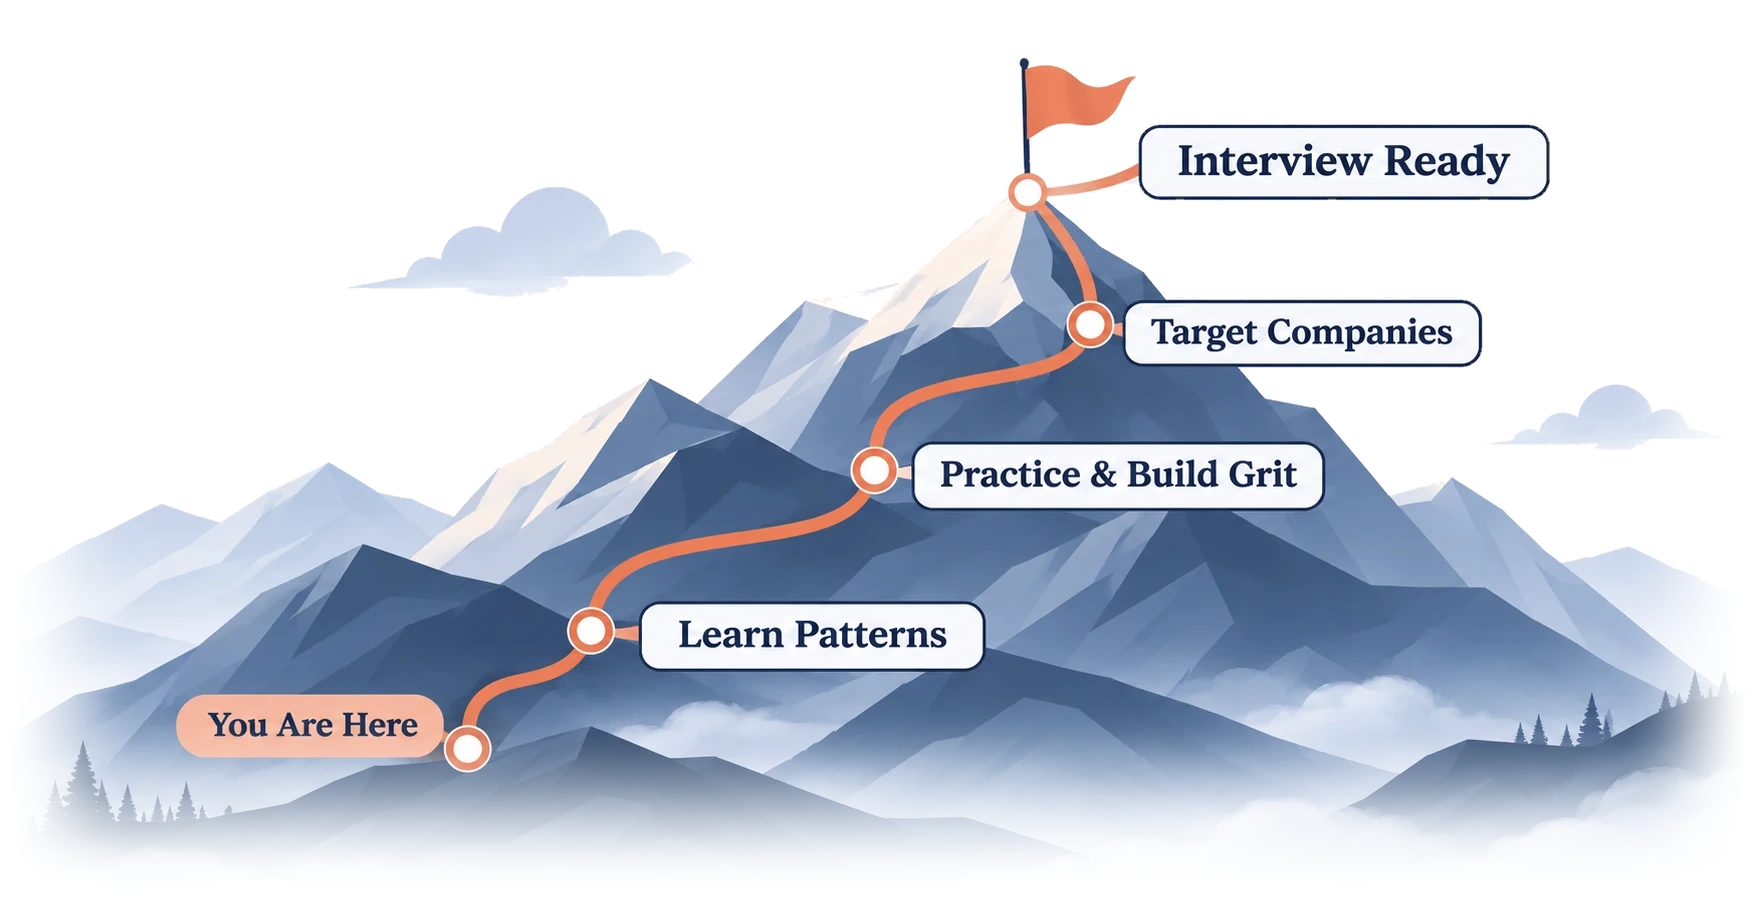
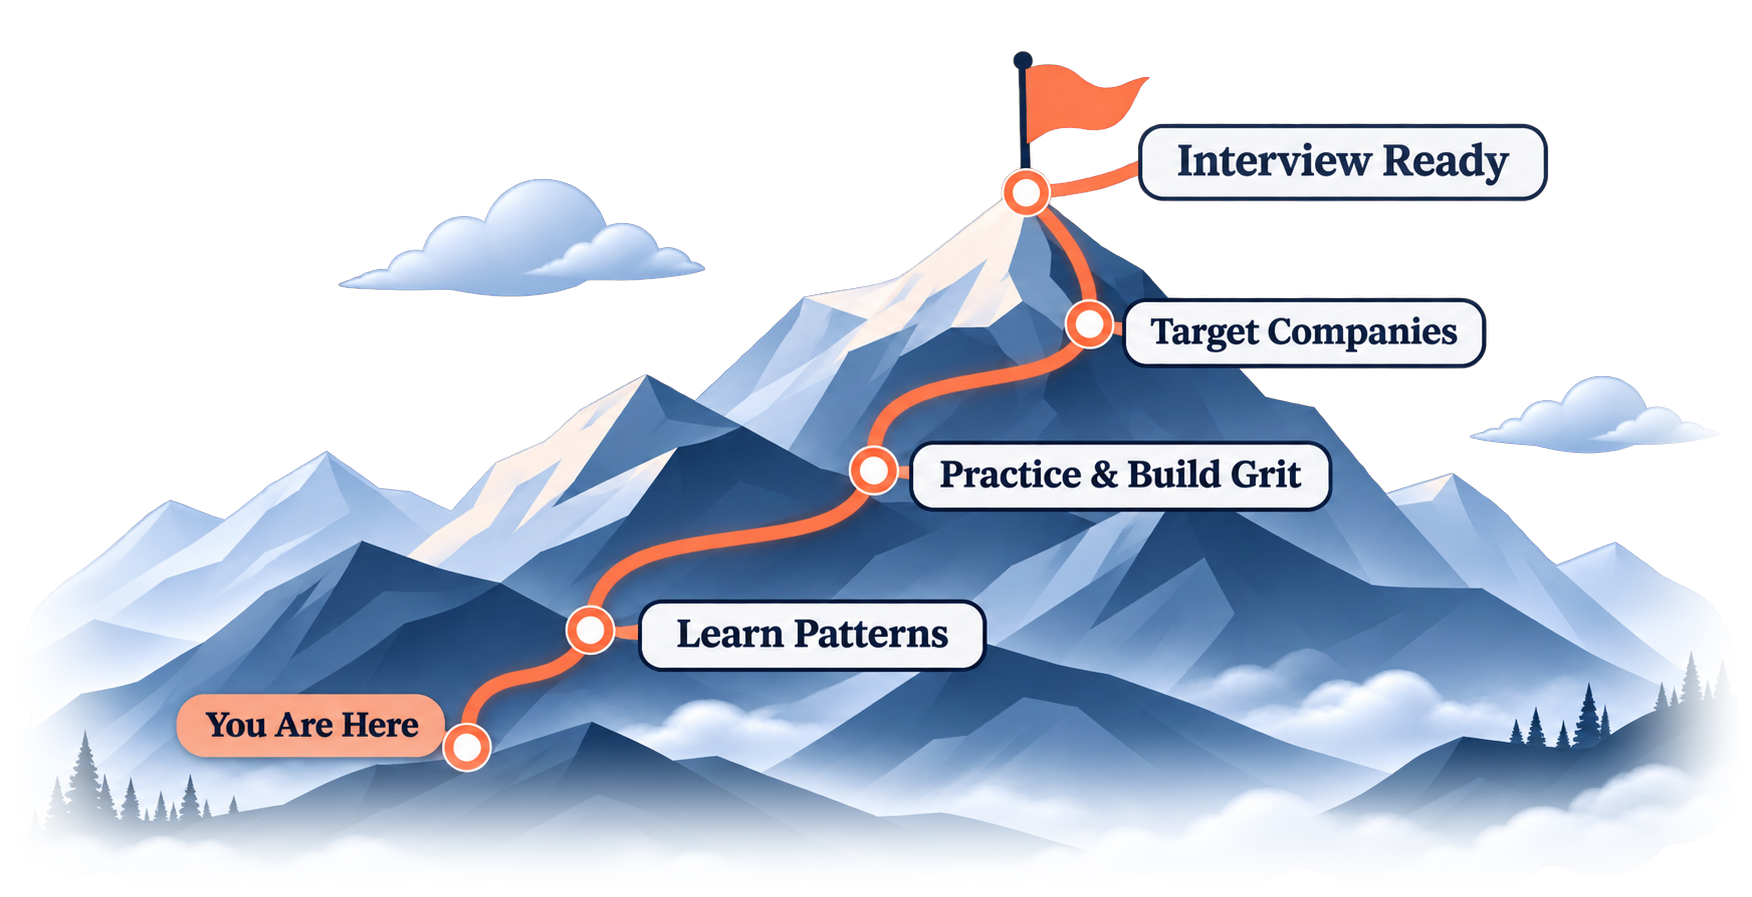
fix(roadmaps): clean mountain cutout with matte de-fringing, smooth boundary dissipation, and remove dark glow artifact

diff --git a/website/src/pages/RoadmapsPage.tsx b/website/src/pages/RoadmapsPage.tsx
@@ -207,8 +207,6 @@ export default function RoadmapsPage() {
           {/* Right Column: Hero Mountain Illustration (Merged into page) */}
           <div className="lg:col-span-5 flex items-center justify-center lg:justify-end select-none">
             <div className="relative w-full max-w-[280px] sm:max-w-[340px] lg:max-w-[390px] flex items-center justify-center">
-              {/* Subtle ambient backdrop glow to blend naturally into light and dark page backgrounds */}
-              <div className="absolute inset-0 bg-radial from-sky-400/10 dark:from-sky-500/15 via-transparent to-transparent rounded-full blur-2xl pointer-events-none -z-10" />
               <picture className="w-full flex items-center justify-center">
                 <source srcSet="/companywise-roadmap-mountain.webp" type="image/webp" />
                 <img
